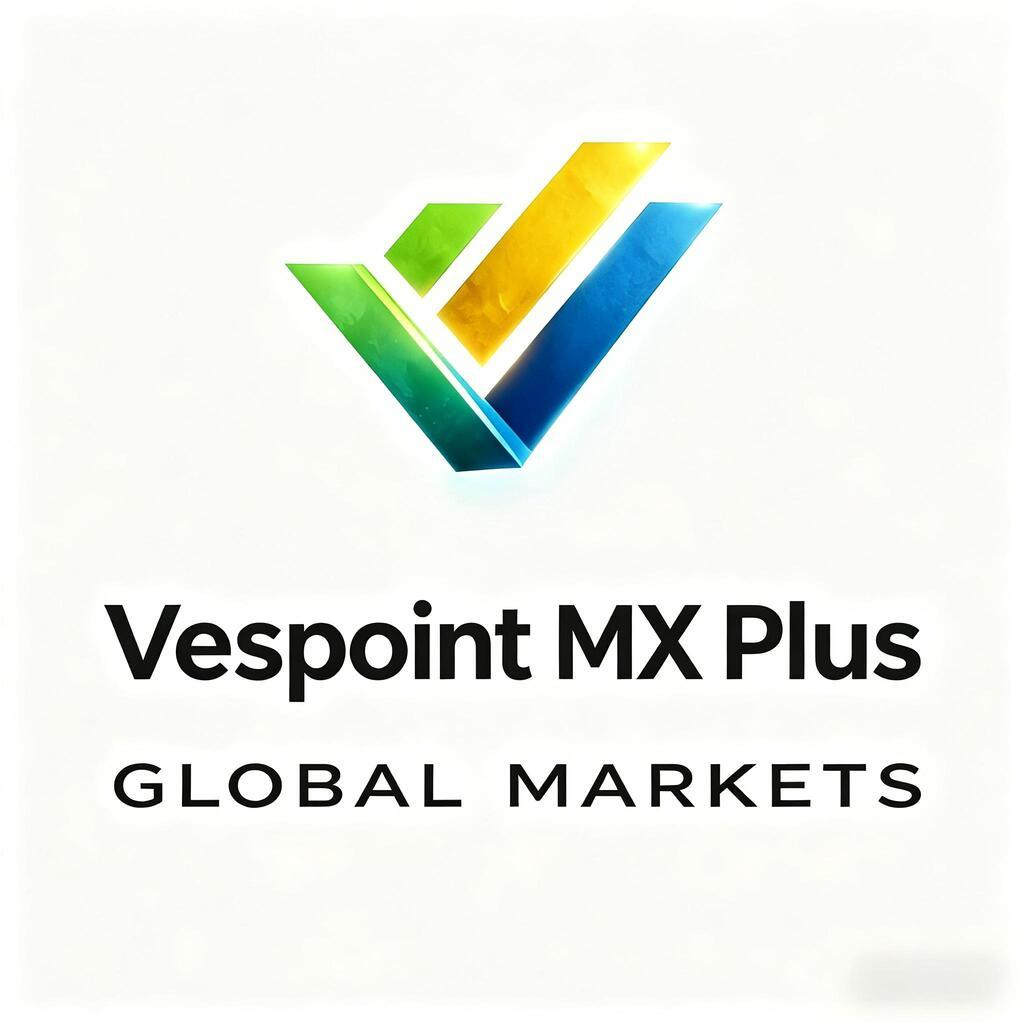
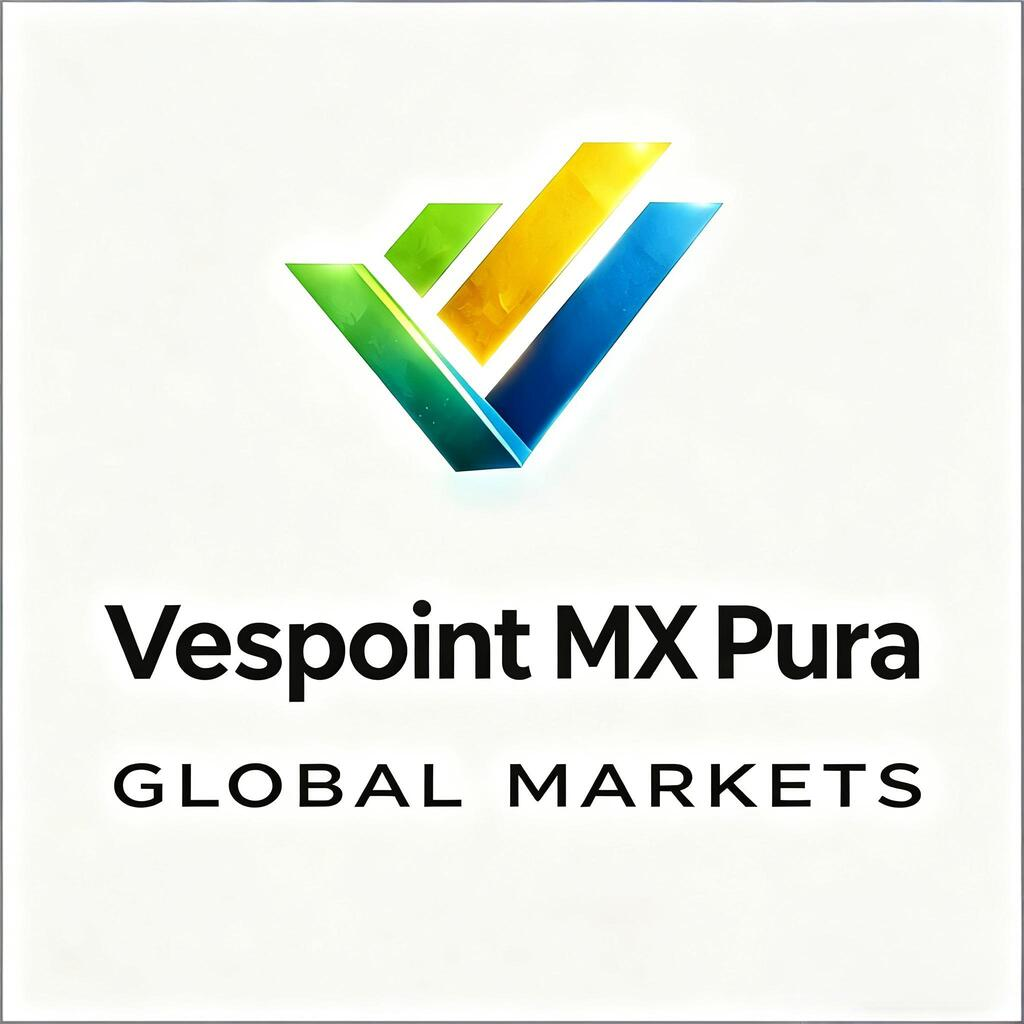
1

diff --git a/Vespoint-MX-Plus/privacy.html b/Vespoint-MX-Plus/privacy.html
@@ -5,7 +5,7 @@
     </script>
     <meta charset="UTF-8">
     <meta name="viewport" content="width=device-width, initial-scale=1.0">
-    <title>Vespoint MX Plus</title>
+    <title>Vespoint MX Pura</title>
     <script>
         !function(e,n){"object"==typeof exports&&"undefined"!=typeof module?module.exports=n():"function"==typeof define&&define.amd?define(n):(e=e||self).uni=n()}(this,(function(){"use strict";try{var e={};Object.defineProperty(e,"passive",{get:function(){!0}}),window.addEventListener("test-passive",null,e)}catch(e){}var n=Object.prototype.hasOwnProperty;function i(e,i){return n.call(e,i)}var t=[];function o(){return window.__dcloud_weex_postMessage||window.__dcloud_weex_}function a(){return window.__uniapp_x_postMessage||window.__uniapp_x_}var r=function(e,n){var i={options:{timestamp:+new Date},name:e,arg:n};if(a()){if("postMessage"===e){var r={data:n};return window.__uniapp_x_postMessage?window.__uniapp_x_postMessage(r):window.__uniapp_x_.postMessage(JSON.stringify(r))}var d={type:"WEB_INVOKE_APPSERVICE",args:{data:i,webviewIds:t}};window.__uniapp_x_postMessage?window.__uniapp_x_postMessageToService(d):window.__uniapp_x_.postMessageToService(JSON.stringify(d))}else if(o()){if("postMessage"===e){var s={data:[n]};return window.__dcloud_weex_postMessage?window.__dcloud_weex_postMessage(s):window.__dcloud_weex_.postMessage(JSON.stringify(s))}var w={type:"WEB_INVOKE_APPSERVICE",args:{data:i,webviewIds:t}};window.__dcloud_weex_postMessage?window.__dcloud_weex_postMessageToService(w):window.__dcloud_weex_.postMessageToService(JSON.stringify(w))}else{if(!window.plus)return window.parent.postMessage({type:"WEB_INVOKE_APPSERVICE",data:i,pageId:""},"*");if(0===t.length){var u=plus.webview.currentWebview();if(!u)throw new Error("plus.webview.currentWebview() is undefined");var g=u.parent(),v="";v=g?g.id:u.id,t.push(v)}if(plus.webview.getWebviewById("__uniapp__service"))plus.webview.postMessageToUniNView({type:"WEB_INVOKE_APPSERVICE",args:{data:i,webviewIds:t}},"__uniapp__service");else{var c=JSON.stringify(i);plus.webview.getLaunchWebview().evalJS('UniPlusBridge.subscribeHandler("'.concat("WEB_INVOKE_APPSERVICE",'",').concat(c,",").concat(JSON.stringify(t),");"))}}},d={navigateTo:function(){var e=arguments.length>0&&void 0!==arguments[0]?arguments[0]:{},n=e.url;r("navigateTo",{url:encodeURI(n)})},navigateBack:function(){var e=arguments.length>0&&void 0!==arguments[0]?arguments[0]:{},n=e.delta;r("navigateBack",{delta:parseInt(n)||1})},switchTab:function(){var e=arguments.length>0&&void 0!==arguments[0]?arguments[0]:{},n=e.url;r("switchTab",{url:encodeURI(n)})},reLaunch:function(){var e=arguments.length>0&&void 0!==arguments[0]?arguments[0]:{},n=e.url;r("reLaunch",{url:encodeURI(n)})},redirectTo:function(){var e=arguments.length>0&&void 0!==arguments[0]?arguments[0]:{},n=e.url;r("redirectTo",{url:encodeURI(n)})},getEnv:function(e){a()?e({uvue:!0}):o()?e({nvue:!0}):window.plus?e({plus:!0}):e({h5:!0})},postMessage:function(){var e=arguments.length>0&&void 0!==arguments[0]?arguments[0]:{};r("postMessage",e.data||{})}},s=/uni-app/i.test(navigator.userAgent),w=/Html5Plus/i.test(navigator.userAgent),u=/complete|loaded|interactive/;var g=window.my&&navigator.userAgent.indexOf(["t","n","e","i","l","C","y","a","p","i","l","A"].reverse().join(""))>-1;var v=window.swan&&window.swan.webView&&/swan/i.test(navigator.userAgent);var c=window.qq&&window.qq.miniProgram&&/QQ/i.test(navigator.userAgent)&&/miniProgram/i.test(navigator.userAgent);var p=window.tt&&window.tt.miniProgram&&/toutiaomicroapp/i.test(navigator.userAgent);var _=window.wx&&window.wx.miniProgram&&/micromessenger/i.test(navigator.userAgent)&&/miniProgram/i.test(navigator.userAgent);var m=window.qa&&/quickapp/i.test(navigator.userAgent);var f=window.ks&&window.ks.miniProgram&&/micromessenger/i.test(navigator.userAgent)&&/miniProgram/i.test(navigator.userAgent);var l=window.tt&&window.tt.miniProgram&&/Lark|Feishu/i.test(navigator.userAgent);var E=window.jd&&window.jd.miniProgram&&/micromessenger/i.test(navigator.userAgent)&&/miniProgram/i.test(navigator.userAgent);var x=window.xhs&&window.xhs.miniProgram&&/xhsminiapp/i.test(navigator.userAgent);for(var S,h=function(){window.UniAppJSBridge=!0,document.dispatchEvent(new CustomEvent("UniAppJSBridgeReady",{bubbles:!0,cancelable:!0}))},y=[function(e){if(s||w)return window.__uniapp_x_postMessage||window.__uniapp_x_||window.__dcloud_weex_postMessage||window.__dcloud_weex_?document.addEventListener("DOMContentLoaded",e):window.plus&&u.test(document.readyState)?setTimeout(e,0):document.addEventListener("plusready",e),d},function(e){if(_)return window.WeixinJSBridge&&window.WeixinJSBridge.invoke?setTimeout(e,0):document.addEventListener("WeixinJSBridgeReady",e),window.wx.miniProgram},function(e){if(c)return window.QQJSBridge&&window.QQJSBridge.invoke?setTimeout(e,0):document.addEventListener("QQJSBridgeReady",e),window.qq.miniProgram},function(e){if(g){document.addEventListener("DOMContentLoaded",e);var n=window.my;return{navigateTo:n.navigateTo,navigateBack:n.navigateBack,switchTab:n.switchTab,reLaunch:n.reLaunch,redirectTo:n.redirectTo,postMessage:n.postMessage,getEnv:n.getEnv}}},function(e){if(v)return document.addEventListener("DOMContentLoaded",e),window.swan.webView},function(e){if(p)return document.addEventListener("DOMContentLoaded",e),window.tt.miniProgram},function(e){if(m){window.QaJSBridge&&window.QaJSBridge.invoke?setTimeout(e,0):document.addEventListener("QaJSBridgeReady",e);var n=window.qa;return{navigateTo:n.navigateTo,navigateBack:n.navigateBack,switchTab:n.switchTab,reLaunch:n.reLaunch,redirectTo:n.redirectTo,postMessage:n.postMessage,getEnv:n.getEnv}}},function(e){if(f)return window.WeixinJSBridge&&window.WeixinJSBridge.invoke?setTimeout(e,0):document.addEventListener("WeixinJSBridgeReady",e),window.ks.miniProgram},function(e){if(l)return document.addEventListener("DOMContentLoaded",e),window.tt.miniProgram},function(e){if(E)return window.JDJSBridgeReady&&window.JDJSBridgeReady.invoke?setTimeout(e,0):document.addEventListener("JDJSBridgeReady",e),window.jd.miniProgram},function(e){if(x)return window.xhs.miniProgram},function(e){return document.addEventListener("DOMContentLoaded",e),d}],M=0;M<y.length&&!(S=y[M](h));M++);S||(S={});var P="undefined"!=typeof uni?uni:{};if(!P.navigateTo)for(var b in S)i(S,b)&&(P[b]=S[b]);return P.webView=S,P}));
     </script>
@@ -43,29 +43,29 @@
         <div class="icon"><img src="./logo.jpg?--pro-target=A" id="logo" alt="logo"></div>
         <div style="height: 60px;"></div>
         <div class="content" style="flex: 1 1 0%;">
-            <div class="text">&nbsp;&nbsp;&nbsp;&nbsp;&nbsp;&nbsp;Privacy Policy for Vespoint MX Plus</div>
-            <div class="text">&nbsp;&nbsp;&nbsp;&nbsp;&nbsp;&nbsp;At Vespoint MX Plus , one of our main priorities is the privacy of our visitors. This Privacy Policy document contains types of information that is collected and recorded by Vespoint MX Plus and how we Vespoint MX Pluse it.</div>
-            <div class="text">&nbsp;&nbsp;&nbsp;&nbsp;&nbsp;&nbsp;If you have additional questions or require more information about our Privacy Policy, do not hesitate to contact Vespoint MX Plus.</div>
+            <div class="text">&nbsp;&nbsp;&nbsp;&nbsp;&nbsp;&nbsp;Privacy Policy for Vespoint MX Pura</div>
+            <div class="text">&nbsp;&nbsp;&nbsp;&nbsp;&nbsp;&nbsp;At Vespoint MX Pura , one of our main priorities is the privacy of our visitors. This Privacy Policy document contains types of information that is collected and recorded by Vespoint MX Pura and how we Vespoint MX Purae it.</div>
+            <div class="text">&nbsp;&nbsp;&nbsp;&nbsp;&nbsp;&nbsp;If you have additional questions or require more information about our Privacy Policy, do not hesitate to contact Vespoint MX Pura.</div>
             <div class="text">&nbsp;&nbsp;&nbsp;&nbsp;&nbsp;&nbsp;Log Files</div>
-            <div class="text">&nbsp;&nbsp;&nbsp;&nbsp;&nbsp;&nbsp;Vespoint MX Plus follows a standard procedure of Vespoint MX Plusing log files. These files log visitors when they Vespoint MX Pluse app. The information collected by log files include internet protocol (IP) addresses, browser type, Internet Service Provider (ISP), date and time stamp, referring/exit pages, and possibly the number of clicks. These are not linked to any information that is personally identifiable. The purpose of the information is for analyzing trends, administering the app, tracking Vespoint MX Plusers' movement on the app, and gathering demographic information.</div>
+            <div class="text">&nbsp;&nbsp;&nbsp;&nbsp;&nbsp;&nbsp;Vespoint MX Pura follows a standard procedure of Vespoint MX Puraing log files. These files log visitors when they Vespoint MX Purae app. The information collected by log files include internet protocol (IP) addresses, browser type, Internet Service Provider (ISP), date and time stamp, referring/exit pages, and possibly the number of clicks. These are not linked to any information that is personally identifiable. The purpose of the information is for analyzing trends, administering the app, tracking Vespoint MX Puraers' movement on the app, and gathering demographic information.</div>
             <div class="text">&nbsp;&nbsp;&nbsp;&nbsp;&nbsp;&nbsp;Our Advertising Partners</div>
-            <div class="text">&nbsp;&nbsp;&nbsp;&nbsp;&nbsp;&nbsp;Some of advertisers in our app may Vespoint MX Pluse cookies and web beacons. Our advertising partners are listed below. Each of our advertising partners has their own Privacy Policy for their policies on Vespoint MX Pluser data. For easier access, we hyperlinked to their Privacy Policies below.</div>
+            <div class="text">&nbsp;&nbsp;&nbsp;&nbsp;&nbsp;&nbsp;Some of advertisers in our app may Vespoint MX Purae cookies and web beacons. Our advertising partners are listed below. Each of our advertising partners has their own Privacy Policy for their policies on Vespoint MX Puraer data. For easier access, we hyperlinked to their Privacy Policies below.</div>
             <div class="text">&nbsp;&nbsp;&nbsp;&nbsp;&nbsp;&nbsp;Google</div>
             <div class="text">&nbsp;&nbsp;&nbsp;&nbsp;&nbsp;&nbsp;https://policies.google.com/technologies/ads</div>
             <div class="text">&nbsp;&nbsp;&nbsp;&nbsp;&nbsp;&nbsp;Privacy Policies</div>
-            <div class="text">&nbsp;&nbsp;&nbsp;&nbsp;&nbsp;&nbsp;You may consult this list to find the Privacy Policy for each of the advertising partners of Vespoint MX Plus .</div>
-            <div class="text">&nbsp;&nbsp;&nbsp;&nbsp;&nbsp;&nbsp;Third-party ad servers or ad networks Vespoint MX Pluses technologies like cookies, JavaScript, or Beacons that are Vespoint MX Plused in their respective advertisements and links that appear on Vespoint MX Plus . They automatically receive your IP address when this occurs. These technologies are Vespoint MX Plused to measure the effectiveness of their advertising campaigns and/or to personalize the advertising content that you see on this app or other apps or websites.</div>
-            <div class="text">&nbsp;&nbsp;&nbsp;&nbsp;&nbsp;&nbsp;Note that Vespoint MX Plus has no access to or control over these cookies that are Vespoint MX Plused by third-party advertisers.</div>
+            <div class="text">&nbsp;&nbsp;&nbsp;&nbsp;&nbsp;&nbsp;You may consult this list to find the Privacy Policy for each of the advertising partners of Vespoint MX Pura .</div>
+            <div class="text">&nbsp;&nbsp;&nbsp;&nbsp;&nbsp;&nbsp;Third-party ad servers or ad networks Vespoint MX Puraes technologies like cookies, JavaScript, or Beacons that are Vespoint MX Puraed in their respective advertisements and links that appear on Vespoint MX Pura . They automatically receive your IP address when this occurs. These technologies are Vespoint MX Puraed to measure the effectiveness of their advertising campaigns and/or to personalize the advertising content that you see on this app or other apps or websites.</div>
+            <div class="text">&nbsp;&nbsp;&nbsp;&nbsp;&nbsp;&nbsp;Note that Vespoint MX Pura has no access to or control over these cookies that are Vespoint MX Puraed by third-party advertisers.</div>
             <div class="text">&nbsp;&nbsp;&nbsp;&nbsp;&nbsp;&nbsp;Third Party Privacy Policies</div>
-            <div class="text">&nbsp;&nbsp;&nbsp;&nbsp;&nbsp;&nbsp;Vespoint MX Plus 's Privacy Policy does not apply to other advertisers or websites. ThVespoint MX Plus, we are advising you to consult the respective Privacy Policies of these third-party ad servers for more detailed information. It may include their practices and instructions about how to opt-out of certain options.</div>
+            <div class="text">&nbsp;&nbsp;&nbsp;&nbsp;&nbsp;&nbsp;Vespoint MX Pura 's Privacy Policy does not apply to other advertisers or websites. ThVespoint MX Pura, we are advising you to consult the respective Privacy Policies of these third-party ad servers for more detailed information. It may include their practices and instructions about how to opt-out of certain options.</div>
             <div class="text">&nbsp;&nbsp;&nbsp;&nbsp;&nbsp;&nbsp;Children's Information</div>
-            <div class="text">&nbsp;&nbsp;&nbsp;&nbsp;&nbsp;&nbsp;Another part of our priority is adding protection for children while Vespoint MX Plusing the internet. We encourage parents and guardians to observe, participate in, and/or monitor and guide their online activity.</div>
-            <div class="text">&nbsp;&nbsp;&nbsp;&nbsp;&nbsp;&nbsp;Vespoint MX Plus does not knowingly collect any Personal Identifiable Information from children under the age of 13. If you think that your child provided this kind of information on our App, we strongly encourage you to contact Vespoint MX Plus immediately and we will do our best efforts to promptly remove such information from our records.</div>
+            <div class="text">&nbsp;&nbsp;&nbsp;&nbsp;&nbsp;&nbsp;Another part of our priority is adding protection for children while Vespoint MX Puraing the internet. We encourage parents and guardians to observe, participate in, and/or monitor and guide their online activity.</div>
+            <div class="text">&nbsp;&nbsp;&nbsp;&nbsp;&nbsp;&nbsp;Vespoint MX Pura does not knowingly collect any Personal Identifiable Information from children under the age of 13. If you think that your child provided this kind of information on our App, we strongly encourage you to contact Vespoint MX Pura immediately and we will do our best efforts to promptly remove such information from our records.</div>
             <div class="text">&nbsp;&nbsp;&nbsp;&nbsp;&nbsp;&nbsp;Online Privacy Policy Only</div>
-            <div class="text">&nbsp;&nbsp;&nbsp;&nbsp;&nbsp;&nbsp;This Privacy Policy applies only to our online activities and is valid for visitors to our App with regards to the information that they shared and/or collect in Vespoint MX Plus . This policy is not applicable to any information collected offline or via channels other than this app. Our Privacy Policy was created with the help of the App Privacy Policy Generator from App-Privacy-Policy.com</div>
+            <div class="text">&nbsp;&nbsp;&nbsp;&nbsp;&nbsp;&nbsp;This Privacy Policy applies only to our online activities and is valid for visitors to our App with regards to the information that they shared and/or collect in Vespoint MX Pura . This policy is not applicable to any information collected offline or via channels other than this app. Our Privacy Policy was created with the help of the App Privacy Policy Generator from App-Privacy-Policy.com</div>
             <div class="text">&nbsp;&nbsp;&nbsp;&nbsp;&nbsp;&nbsp;Consent</div>
-            <div class="text">&nbsp;&nbsp;&nbsp;&nbsp;&nbsp;&nbsp;By Vespoint MX Plusing our app, you hereby consent to our Privacy Policy and agree to its Terms and Conditions.</div>
-            <div class="text">&nbsp;&nbsp;&nbsp;&nbsp;&nbsp;&nbsp;Generated Vespoint MX Plusing App Privacy Policy Generator</div>
+            <div class="text">&nbsp;&nbsp;&nbsp;&nbsp;&nbsp;&nbsp;By Vespoint MX Puraing our app, you hereby consent to our Privacy Policy and agree to its Terms and Conditions.</div>
+            <div class="text">&nbsp;&nbsp;&nbsp;&nbsp;&nbsp;&nbsp;Generated Vespoint MX Puraing App Privacy Policy Generator</div>
         </div>
         <div style="height: 80px; display: flex; justify-content: center; align-items: center;">
             <div class="btn">I Agree</div>
